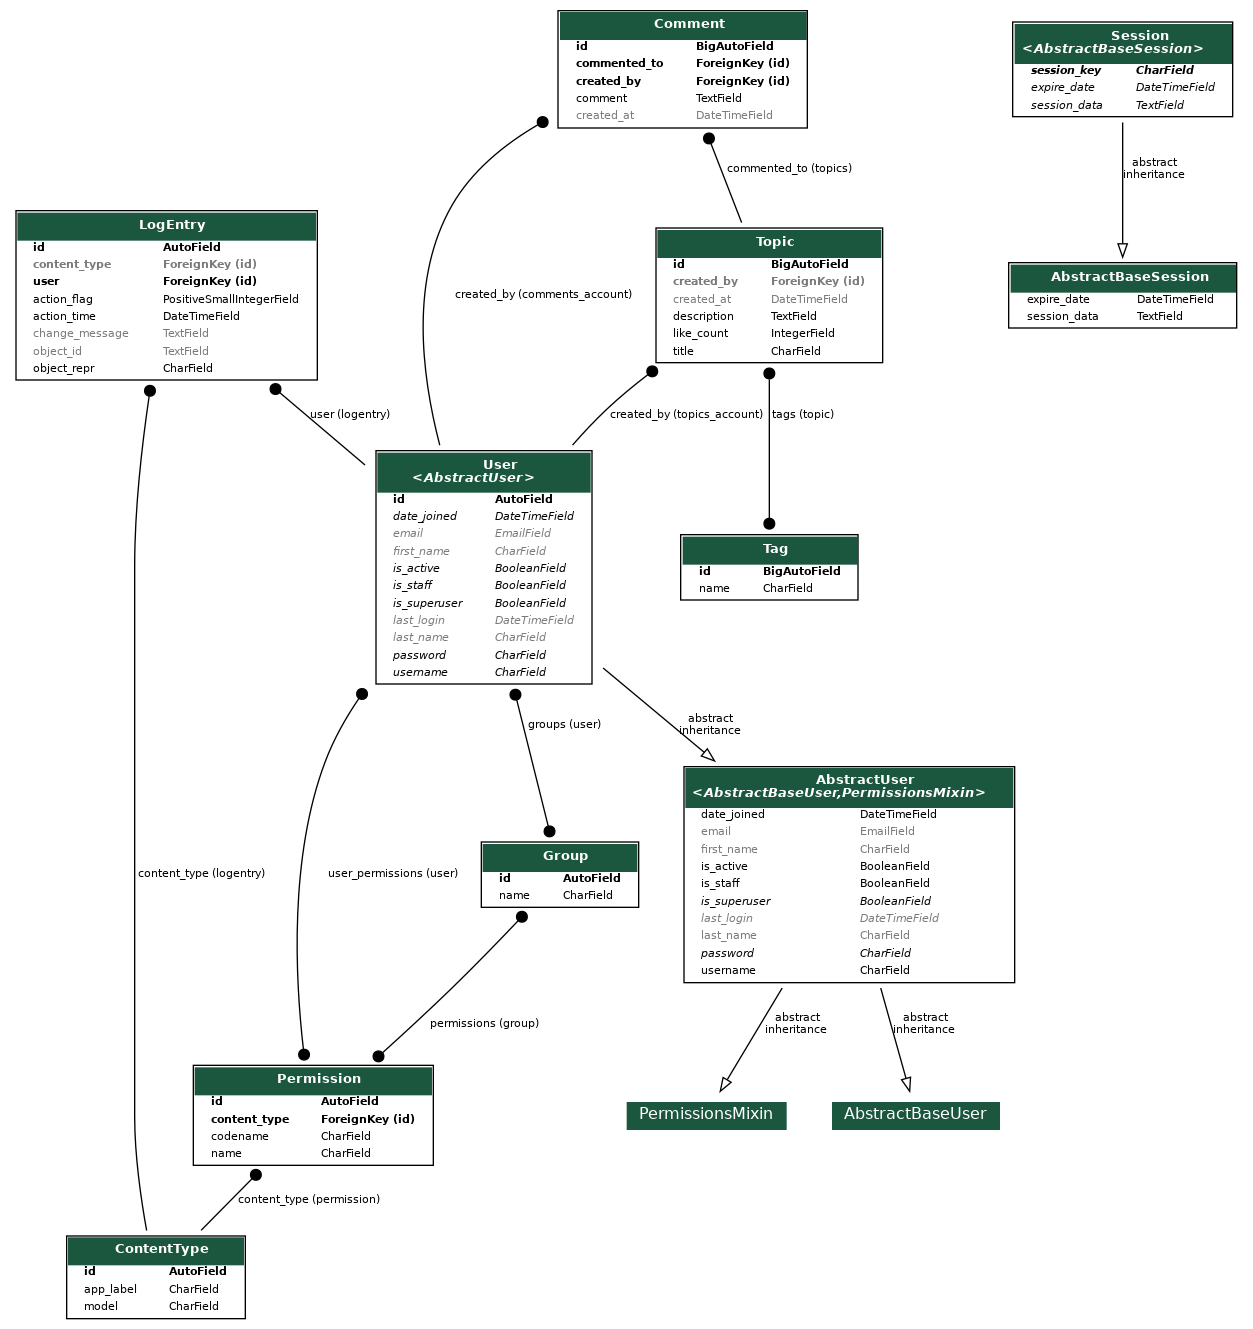
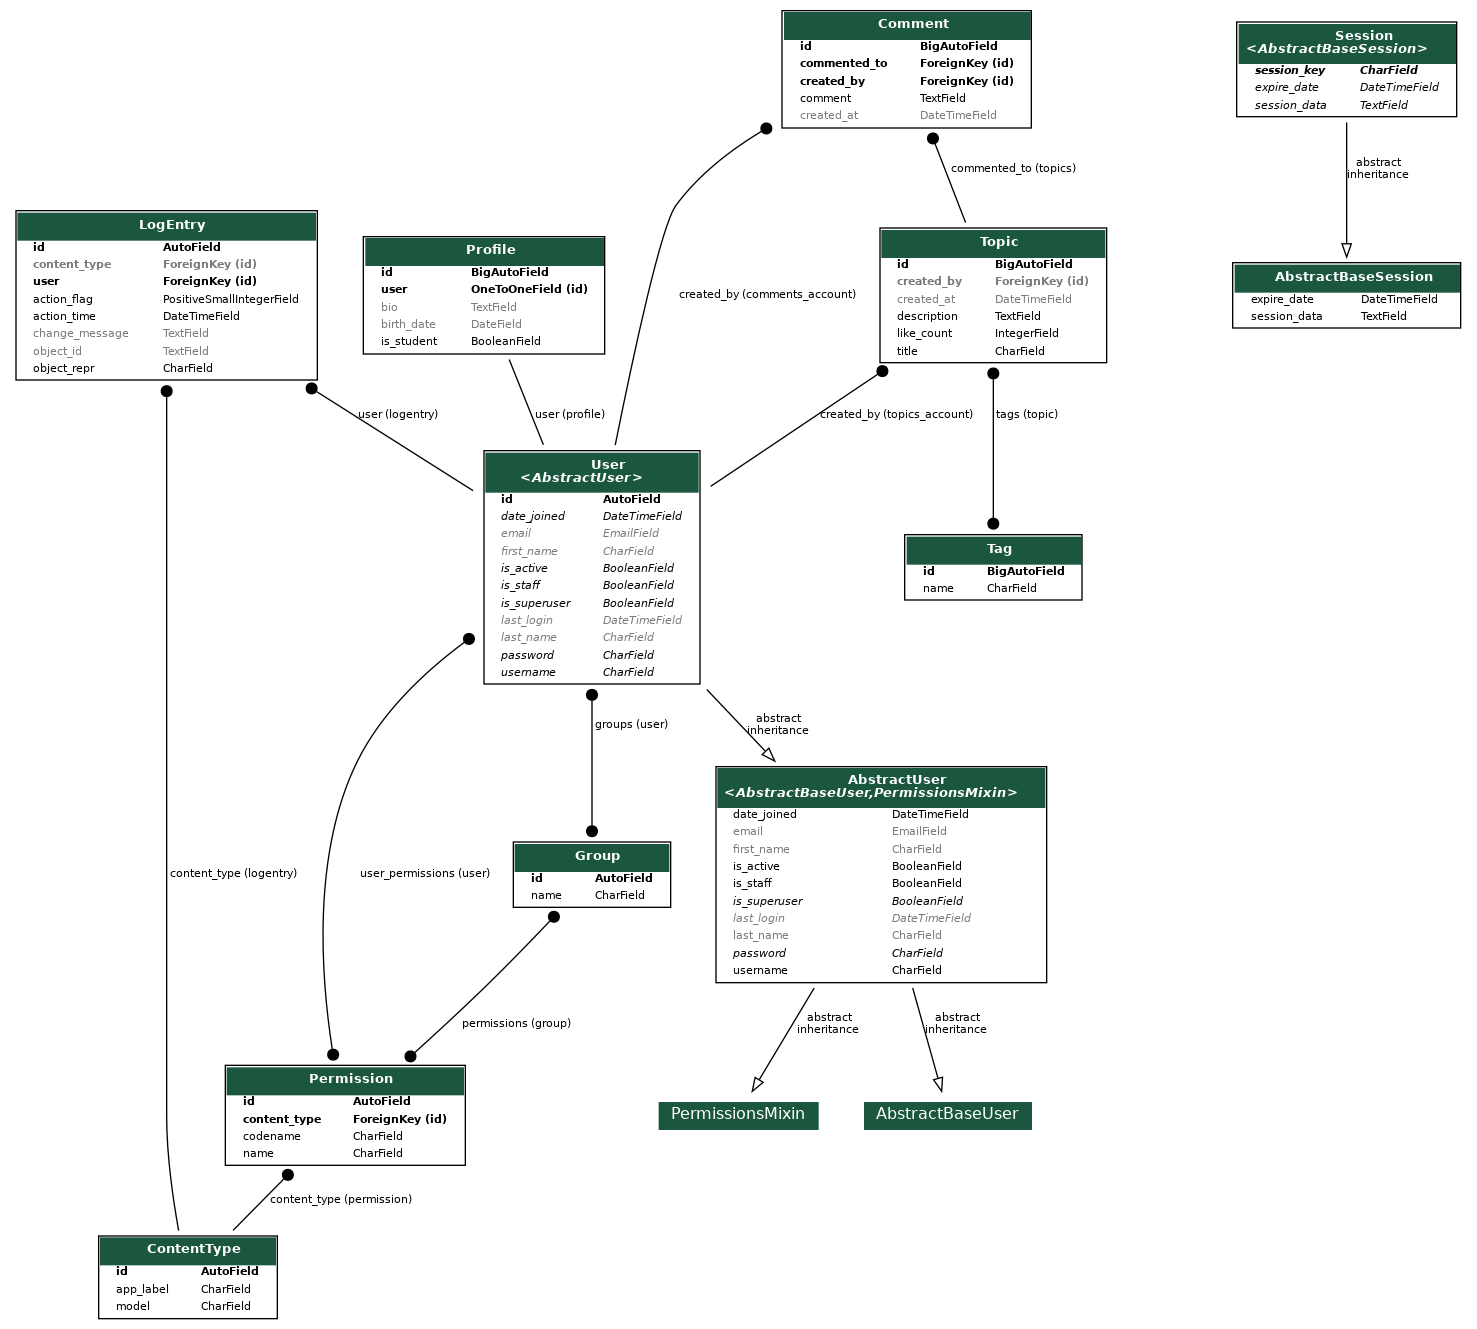
とりあえず改変前にコミット

diff --git a/accounts/templates/accounts/profile.html b/accounts/templates/accounts/profile.html
@@ -1,11 +1,24 @@
 {% extends 'base.html' %}
 {% load django_bootstrap5 %}
+{% load static %}
+
+{% block extraCssStyle %}
+
+{% endblock %}
+
 {% block main %}
   <div class="mb-3">
     <label for="" class="form-label">名前</label>
     <p class="form-control">{{ user.username }}</p>
     <label for="" class="form-label">メールアドレス</label>
     <p class="form-control">{{ user.email }}</p>
+    <label for="" class="form-label">ステータス</label>
+    {% if profile.is_student %}
+      <!-- 学生か否か -->
+      <p class="form-control">学生</p>
+    {% else %}
+      <p class="form-control">市民</p>
+    {% endif %}
   </div>
   <form action="" method="POST" class="mb-3">
     {% csrf_token %}

diff --git a/accounts/templates/accounts/edit_profile.html b/accounts/templates/accounts/edit_profile.html
@@ -2,12 +2,11 @@
 {% load django_bootstrap5 %}
 
 {% block main %}
-  <!-- edit_profile.html -->
   <h2>Edit Profile</h2>
 
   <form method="POST" action="">
     {% csrf_token %}
-    {{ form.as_p }}
+    {% bootstrap_form form %}
     <button type="submit" name="save_profile">保存</button>
   </form>
 {% endblock %}

diff --git a/testapp/tests.py b/testapp/tests.py
@@ -34,75 +34,77 @@ class RoutingTest(TestCase):
         # ユーザーを作成
         self.user = User.objects.create_user(
             username='testuser',
-            email='test@test.com',
+            email='test_test@test.com',
             password='testpassword',
+            date_joined='2020-01-01 00:00:00',
         )
 
     def test_should_return_200_when_access_to_top(self):
         self.client.login(username='testuser',
-                          password='testpassword', email='test@test.com')
+                          password='testpassword', email='test_test@test.com')
         response = self.client.get(self.urls['top'])
         self.assertEqual(response.status_code, 200)
 
     def test_should_return_200_when_access_to_post(self):
         self.client.login(username='testuser',
-                          password='testpassword', email='test@test.com')
+                          password='testpassword', email='test_test@test.com')
         response = self.client.get(self.urls['post'])
         self.assertEqual(response.status_code, 200)
 
     def test_should_return_200_when_access_to_postcomment(self):
         self.client.login(username='testuser',
-                          password='testpassword', email='test@test.com')
+                          password='testpassword', email='test_test@test.com')
         response = self.client.get(self.urls['postcomment-1'])
         self.assertEqual(response.status_code, 200)
 
     def test_should_return_200_when_access_to_postdone(self):
         self.client.login(username='testuser',
-                          password='testpassword', email='test@test.com')
+                          password='testpassword', email='test_test@test.com')
         response = self.client.get(self.urls['postdone'])
         self.assertEqual(response.status_code, 200)
 
     def test_should_return_200_when_access_to_ranking(self):
         self.client.login(username='testuser',
-                          password='testpassword', email='test@test.com')
+                          password='testpassword', email='test_test@test.com')
         response = self.client.get(self.urls['ranking'])
         self.assertEqual(response.status_code, 200)
 
     def test_should_return_200_when_access_to_showpost(self):
         self.client.login(username='testuser',
-                          password='testpassword', email='test@test.com')
-        response = self.client.get(self.urls['showpost-1'])
+                          password='testpassword', email='test_test@test.com')
+        # response = self.client.get(self.urls['showpost-1'])
+        response = self.client.get('/civicSeek_app/showpost/1/')
         self.assertEqual(response.status_code, 200)
 
     def test_should_return_200_when_access_to_toolbar(self):
         self.client.login(username='testuser',
-                          password='testpassword', email='test@test.com')
+                          password='testpassword', email='test_test@test.com')
         response = self.client.get(self.urls['toolbar'])
         self.assertEqual(response.status_code, 200)
 
     def test_should_return_200_when_access_to_signup_success(self):
-        # self.client.login(username='testuser', password='testpassword',email='test@test.com')
+        # self.client.login(username='testuser', password='testpassword',email='test_test@test.com')
         response = self.client.get(self.urls['signup_success'])
         self.assertEqual(response.status_code, 200)
 
     def test_should_return_200_when_access_to_signup(self):
-        # self.client.login(username='testuser', password='testpassword',email='test@test.com')
+        # self.client.login(username='testuser', password='testpassword',email='test_test@test.com')
         response = self.client.get(self.urls['signup'])
         self.assertEqual(response.status_code, 200)
 
     def test_should_return_200_when_access_to_profile(self):
         self.client.login(username='testuser',
-                          password='testpassword', email='test@test.com')
+                          password='testpassword', email='test_test@test.com')
         response = self.client.get(self.urls['profile'])
         self.assertEqual(response.status_code, 200)
 
     def test_should_return_200_when_access_to_edit_profile(self):
         self.client.login(username='testuser',
-                          password='testpassword', email='test@test.com')
+                          password='testpassword', email='test_test@test.com')
         response = self.client.get(self.urls['edit_profile'])
         self.assertEqual(response.status_code, 200)
 
     def test_should_return_200_when_access_to_login(self):
-        # self.client.login(username='testuser', password='testpassword',email='test@test.com')
+        # self.client.login(username='testuser', password='testpassword',email='test_test@test.com')
         response = self.client.get(self.urls['login'])
         self.assertEqual(response.status_code, 200)

diff --git a/accounts/views.py b/accounts/views.py
@@ -8,10 +8,13 @@ from django.http import HttpResponse, HttpResponseRedirect
 from django.urls import reverse_lazy
 from django.views.generic.edit import CreateView
 from django.contrib.auth.views import LogoutView
+from django.contrib.auth.decorators import login_required
 from django.shortcuts import render, redirect, get_object_or_404
 from django.views import View
-from accounts.forms import ProfileEdit, SignUpForm, CustomLoginForm
-from config.settings import LOGIN_REDIRECT_URL # ログインをしたらリダイレクトするURL
+from accounts.forms import SignUpForm, CustomLoginForm, CusomUserChangeForm
+from accounts.models import Profile
+from accounts.forms import ProfileEditForm
+from config.settings import LOGIN_REDIRECT_URL  # ログインをしたらリダイレクトするURL
 
 
 # Create your views here.
@@ -67,9 +70,13 @@ class CustomLogoutView(LogoutView):
         return reverse_lazy(LOGIN_REDIRECT_URL)  # このURLをカスタマイズしてください
 
 
+@login_required
 def profile_view(request):
     '''profileの表示をする
     '''
+    user = request.user
+    profile = Profile.objects.filter(user=user)
+
     if request.method == "POST":
         '''何かのボタンが押されたら
         '''
@@ -78,24 +85,28 @@ def profile_view(request):
             '''
             return redirect('accounts:edit_profile_view')
 
-    return render(request, 'accounts/profile.html', {'user': request.user})
+    return render(request, 'accounts/profile.html', {'user': user, 'profile': profile})
 
 
+@login_required
 def edit_profile_view(request):
     '''profileの編集ページ
     '''
+
     if request.method == 'POST':
-        '''何らかのボタンが押されたら
+        '''POSTを受け取ったら
         '''
         if "save_profile" in request.POST:
-            pass
-            form = ProfileEdit(request.POST, instance=request.user)
+            '''保存ボタンが押されたら
+            '''
+            form = CusomUserChangeForm(request.POST, instance=request.user)
+
             if form.is_valid():
+                '''サニタイジングが通ったら
+                '''
                 form.save()
                 return redirect('accounts:profile_view')  # プロフィールページにリダイレクト
-        else:
-            form = ProfileEdit(instance=request.user)  # ここは要検討
-    else:
-        form = ProfileEdit(instance=request.user)
+
+    form = CusomUserChangeForm(instance=request.user)
 
     return render(request, 'accounts/edit_profile.html', {'form': form})

diff --git a/accounts/forms.py b/accounts/forms.py
@@ -2,6 +2,7 @@ from django.contrib.auth.forms import UserCreationForm, UserChangeForm, Authenti
 from django.conf import settings
 from django.contrib.auth import get_user_model
 from django import forms
+from accounts.models import Profile
 
 UserModel = get_user_model()
 
@@ -22,8 +23,17 @@ class CustomLoginForm(AuthenticationForm):
     username = forms.EmailField(label='Email')
 
 
-class ProfileEdit(UserChangeForm):
+class ProfileEditForm(forms.ModelForm):
     '''profileを編集するためのform
+    !!!: このformはまだサニタイジング処理を記述されていないため、メソッドをオーバーライドしてサニタイジングする必要がある
+    '''
+    class Meta:
+        model = Profile
+        fields = ('user', 'bio', 'is_student', 'birth_date')
+
+
+class CusomUserChangeForm(UserChangeForm):
+    '''UserChangeFormのサブクラス
     '''
     class Meta:
         model = UserModel

diff --git a/accounts/migrations/0001_initial.py b/accounts/migrations/0001_initial.py
@@ -1,0 +1,27 @@
+# Generated by Django 4.2.6 on 2023-12-18 06:38
+
+from django.conf import settings
+from django.db import migrations, models
+import django.db.models.deletion
+
+
+class Migration(migrations.Migration):
+
+    initial = True
+
+    dependencies = [
+        migrations.swappable_dependency(settings.AUTH_USER_MODEL),
+    ]
+
+    operations = [
+        migrations.CreateModel(
+            name='Profile',
+            fields=[
+                ('id', models.BigAutoField(auto_created=True, primary_key=True, serialize=False, verbose_name='ID')),
+                ('bio', models.TextField(blank=True, max_length=500)),
+                ('is_student', models.BooleanField(default=False)),
+                ('birth_date', models.DateField(blank=True, null=True)),
+                ('user', models.OneToOneField(on_delete=django.db.models.deletion.CASCADE, to=settings.AUTH_USER_MODEL)),
+            ],
+        ),
+    ]

diff --git a/accounts/models.py b/accounts/models.py
@@ -2,3 +2,28 @@ from django.db import models
 # Create your models here.
 
 
+from django.db import models
+from django.contrib.auth.models import User
+from django.db.models.signals import post_save
+from django.dispatch import receiver
+
+
+class Profile(models.Model):
+    user = models.OneToOneField(User, on_delete=models.CASCADE)
+    bio = models.TextField(max_length=500, blank=True)
+    is_student = models.BooleanField(default=False, blank=False)
+    birth_date = models.DateField(null=True, blank=True)
+
+    def __str__(self):
+        return self.user.username
+
+
+@receiver(post_save, sender=User)
+def create_user_profile(sender, instance, created, **kwargs):
+    if created:
+        Profile.objects.create(user=instance)
+
+
+@receiver(post_save, sender=User)
+def save_user_profile(sender, instance, **kwargs):
+    instance.profile.save()
